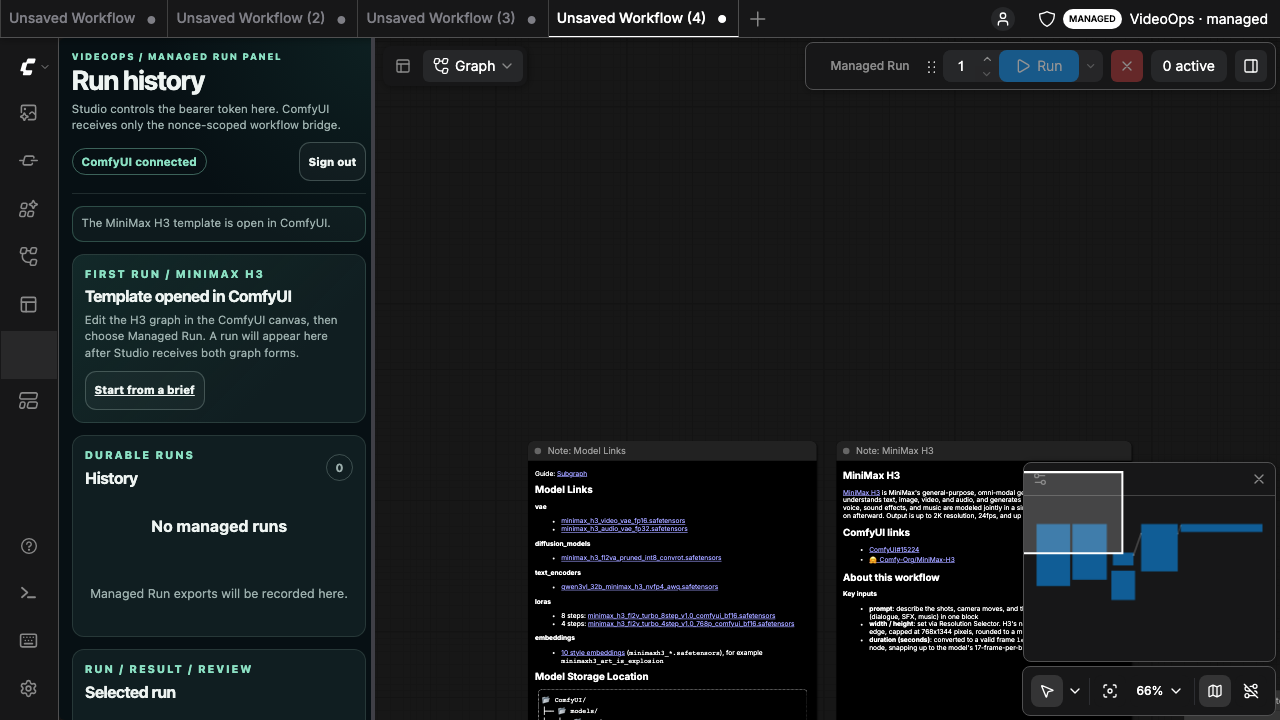
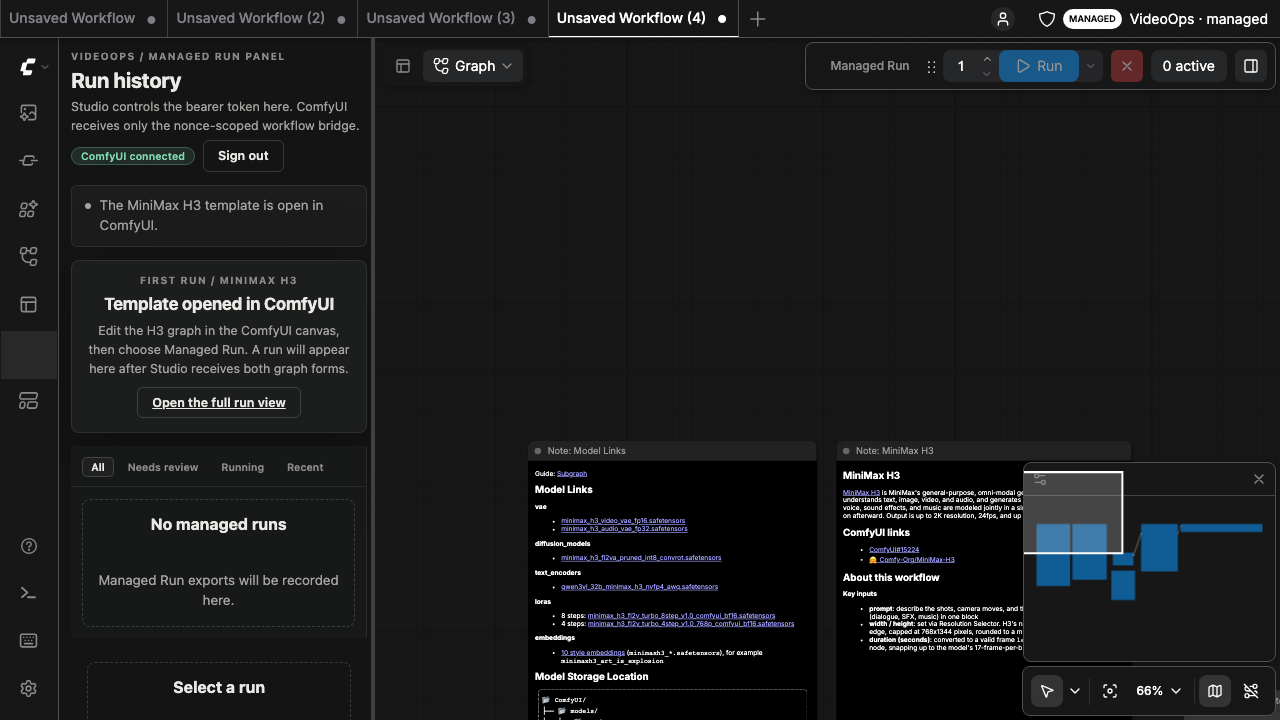
docs: the README still showed the teal panel, and two specs still failed
`pnpm demo:screenshots` regenerates the seven Studio captures, and that is
what the redesign ran. The four under `comfy-frontend/` belong to
`comfy-inversion.spec.ts`, which was not run -- so the README's only embedded
image, `05-videoops-managed-run.png`, still showed the pre-redesign teal
panel. Both VideoOps captures are regenerated; `01-editor-loaded` and
`02-h3-template-open` are ComfyUI's own editor and are unaffected by a
VideoOps restyle.

Two specs had gone stale against the new DOM, and one of them was already
failing on main -- the browser suite was 16/17, not the 17/17 the status
record claims:

- `run-view.spec.ts` clicked "Reject" inside the selected-run region, which
  now also holds "Reject annotation" since the attempt actions moved into the
  sticky header. Matched exactly.
- `comfy-inversion.spec.ts` read a status that the redesign states twice,
  once in the header and once on the attempt; scoped to the attempt card, as
  the run-view specs already do. Its "Accepted" assertion was run-level all
  along and now reads the Run panel's Review fact.

The manifest's description of `05` was written for the old layout: evaluation
detail and the revision controls no longer sit above the panel fold, so it
says what the capture actually shows.

Browser suite 17/17, gateway 7/7, secret scan 262 files, docs gate 12
captures.

diff --git a/e2e/comfy-inversion.spec.ts b/e2e/comfy-inversion.spec.ts
@@ -247,8 +247,12 @@ test.describe('ComfyUI plugin inversion', () => {
     await expect(
       panel.getByRole('button', { name: 'Pin keeper' }),
     ).toBeVisible();
+    // The redesigned run view states the status twice -- once in the sticky
+    // header, once on the attempt itself -- so scope to the attempt card, the
+    // same way the standalone run-view specs do.
+    const attemptCard = panel.locator('.attempt-card');
     await expect(
-      panel.getByText('Awaiting Review', { exact: true }),
+      attemptCard.getByText('Awaiting Review', { exact: true }),
     ).toBeVisible({
       timeout: 30_000,
     });
@@ -269,7 +273,14 @@ test.describe('ComfyUI plugin inversion', () => {
       .getByLabel('Review note')
       .fill('Managed panel review evidence.');
     await panel.getByRole('button', { name: 'Accept annotation' }).click();
-    await expect(panel.getByText('Accepted', { exact: true })).toBeVisible();
+    // The annotation decision is run-level: it lands in the Run panel's
+    // "Review" fact, not on the attempt's status badge.
+    await expect(
+      panel
+        .locator('.fact-list > div')
+        .filter({ hasText: 'Review' })
+        .getByText('Accepted', { exact: true }),
+    ).toBeVisible();
     await panel
       .getByRole('button', { name: 'Load revision in ComfyUI' })
       .click();

diff --git a/e2e/run-view.spec.ts b/e2e/run-view.spec.ts
@@ -245,7 +245,9 @@ test.describe('RunView, ported from project-studio.spec.ts', () => {
     // Accept / Reject / Derive retry live in the sticky header now, not
     // inside the attempt card; the reject reason form is a body sibling.
     const detail = selectedRunDetail(page);
-    await detail.getByRole('button', { name: 'Reject' }).click();
+    // Exact: the run-level "Reject annotation" button shares this region
+    // since the redesign moved the attempt actions into the run header.
+    await detail.getByRole('button', { name: 'Reject', exact: true }).click();
     await detail.getByLabel('Review reason code').fill('TOO_DARK');
     await detail.getByRole('button', { name: 'Reject attempt' }).click();
     await expect(card.getByText('Rejected', { exact: true })).toBeVisible();

diff --git a/EVIDENCE-MANIFEST.md b/EVIDENCE-MANIFEST.md
@@ -91,7 +91,7 @@ origin cannot read the Studio iframe document.
 | Filename | Capture command | Evidence level | What is shown | Secret review |
 |---|---|---|---|---|
 | `assets/screenshots/comfy-frontend/04-videoops-sidebar.png` | `CAPTURE_EVIDENCE=1 pnpm test:e2e e2e/comfy-inversion.spec.ts` | `offline-fake` | ComfyUI graph canvas with the Studio-origin VideoOps sidebar, H3 empty state, and managed-mode badge | Playwright asserts Comfy storage/global credential absence, cross-origin protection, and credential-free iframe URL |
-| `assets/screenshots/comfy-frontend/05-videoops-managed-run.png` | `CAPTURE_EVIDENCE=1 pnpm test:e2e e2e/comfy-inversion.spec.ts` | `offline-fake` | One validated managed run in the sidebar with progress/evaluation and revision controls | same token-isolation assertions; no direct executor submission |
+| `assets/screenshots/comfy-frontend/05-videoops-managed-run.png` | `CAPTURE_EVIDENCE=1 pnpm test:e2e e2e/comfy-inversion.spec.ts` | `offline-fake` | One managed run in the sidebar, grouped under "Needs review" and selected, with the run header's accept/reject actions and the progress stepper in view; evaluation detail and the revision controls sit below the panel fold | same token-isolation assertions; no direct executor submission |
 
 Recorded gate values: `storageHasCredential: false`,
 `globalsHaveCredential: false`, `crossOriginProtected: true`, browser
